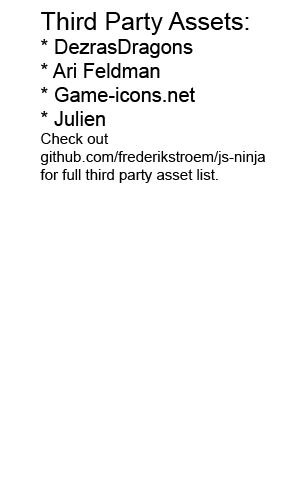
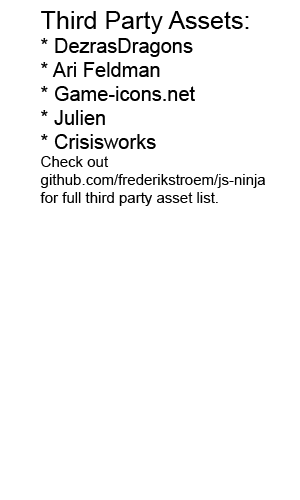
New background added

diff --git a/THIRD-PARTY-ASSETS.md b/THIRD-PARTY-ASSETS.md
@@ -1,5 +1,5 @@
 # Third Party Assets
-This page links and credits all game art, music and so on other creaters have made that are used in this game.
+This page links and credits all game art, music and so on that other creators have made, that are used in this game.
 ## Art
 ### Ninja [Animated]
 *By DezrasDragons*
@@ -17,3 +17,7 @@ This page links and credits all game art, music and so on other creaters have ma
 *By Julien*
 
 [Webpage link.](https://opengameart.org/content/large-forest-background)
+### Asian Mountain Forest BG
+*By Crisisworks*
+
+[Webpage link.](https://opengameart.org/content/asian-mountain-forest-bg)
